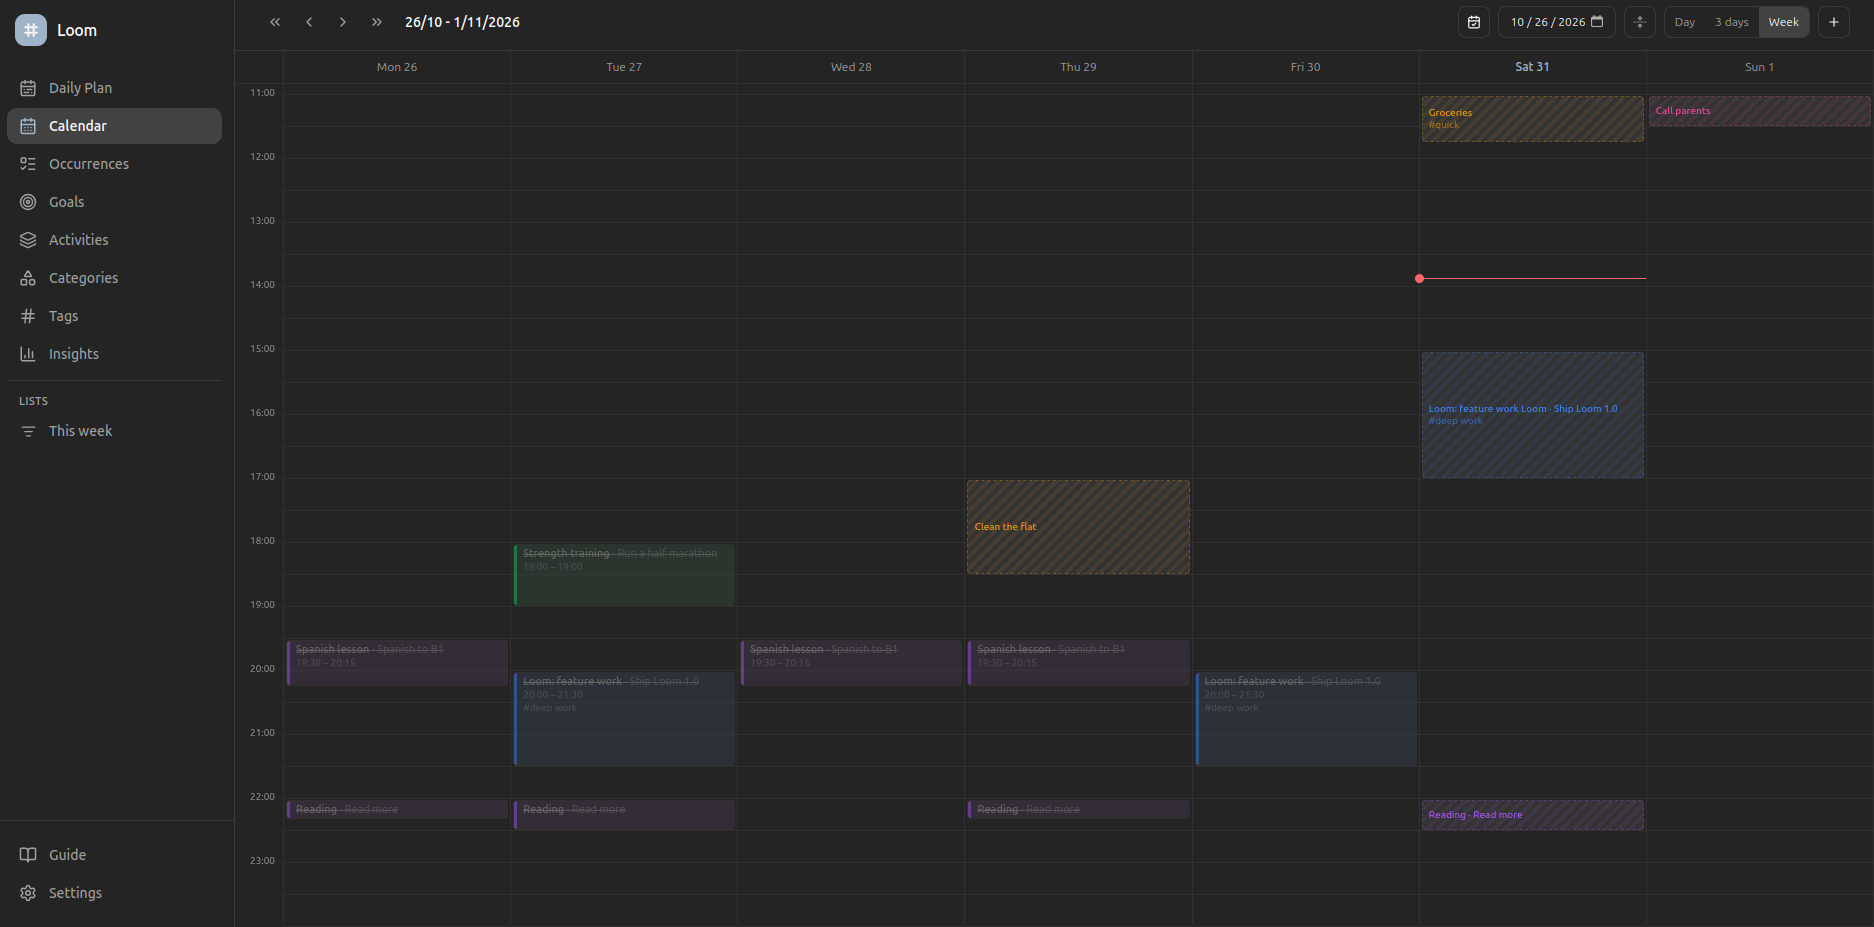
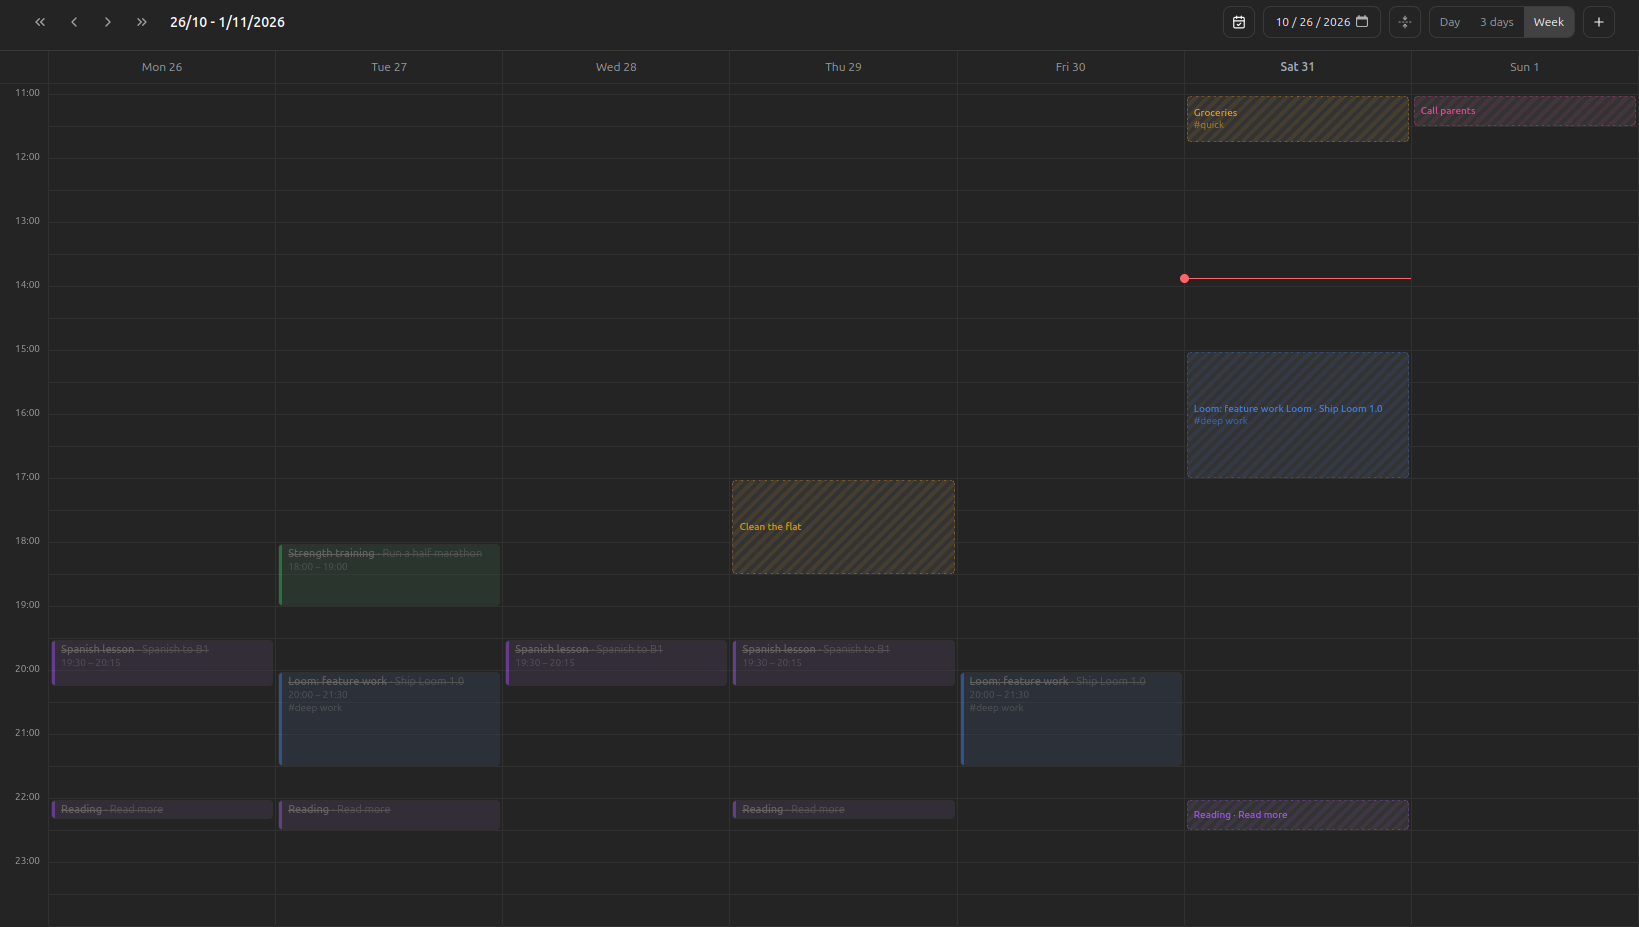
feat: crop images

diff --git a/README.md b/README.md
@@ -4,11 +4,11 @@ A brain space for goals, deadlines and motivation, built around **Goals**, **Act
 **Occurrences**. You only log what you care about. The calendar shows your occurrences and gives you
 a quick way to add new ones.
 
-![Daily plan](images/screenshot-plan.png)
-
-| Goals | Calendar |
+| Daily plan | Goals |
 |---|---|
-| ![Goals](images/screenshot-goals.png) | ![Calendar](images/screenshot-calendar.png) |
+| ![Daily plan](images/screenshot-plan.png) | ![Goals](images/screenshot-goals.png) |
+
+![Calendar](images/screenshot-calendar.png)
 
 - `spec.md` describes what the app does and its domain rules.
 - `design.md` describes the visual language.
